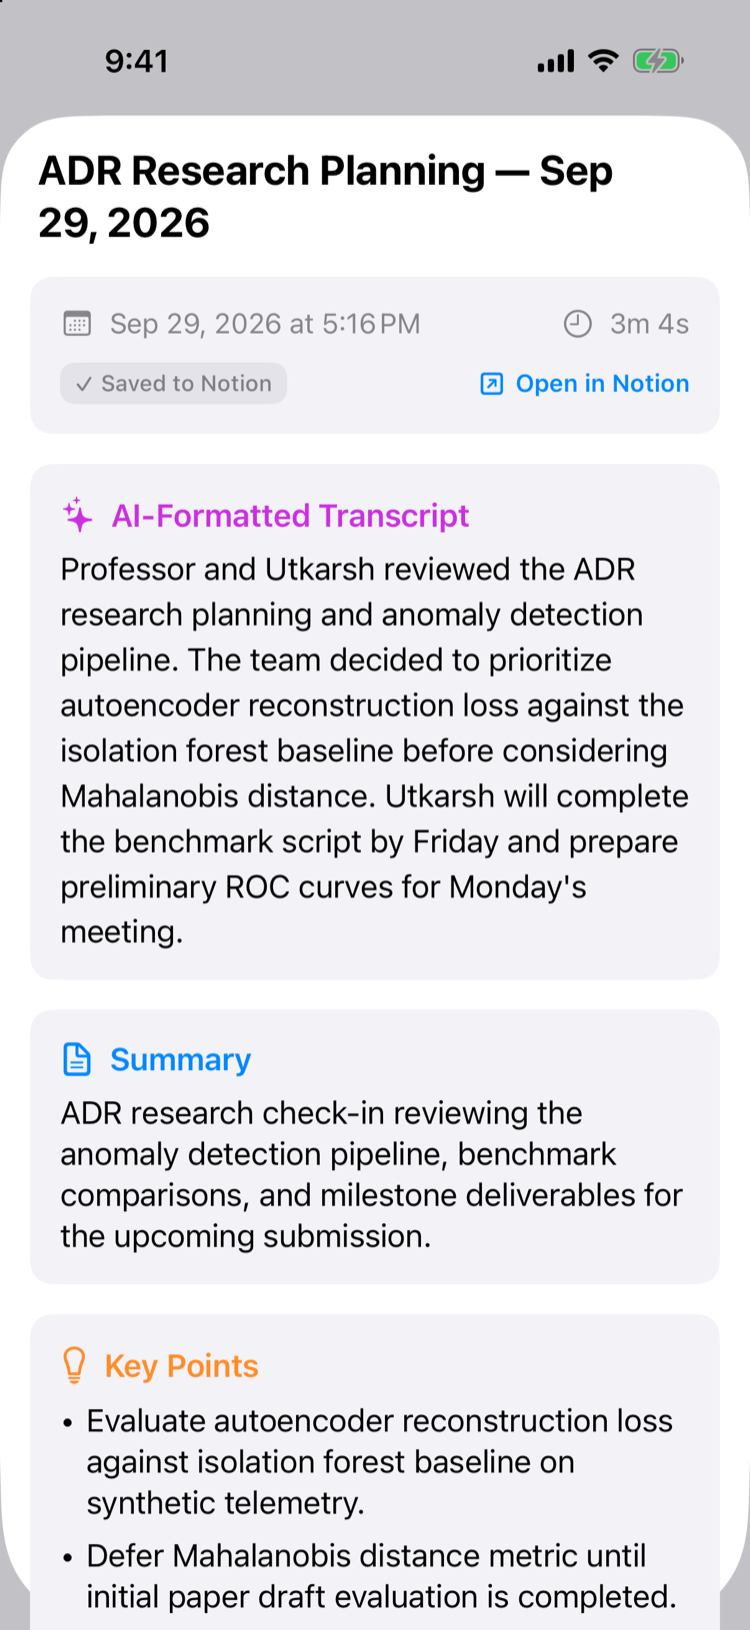
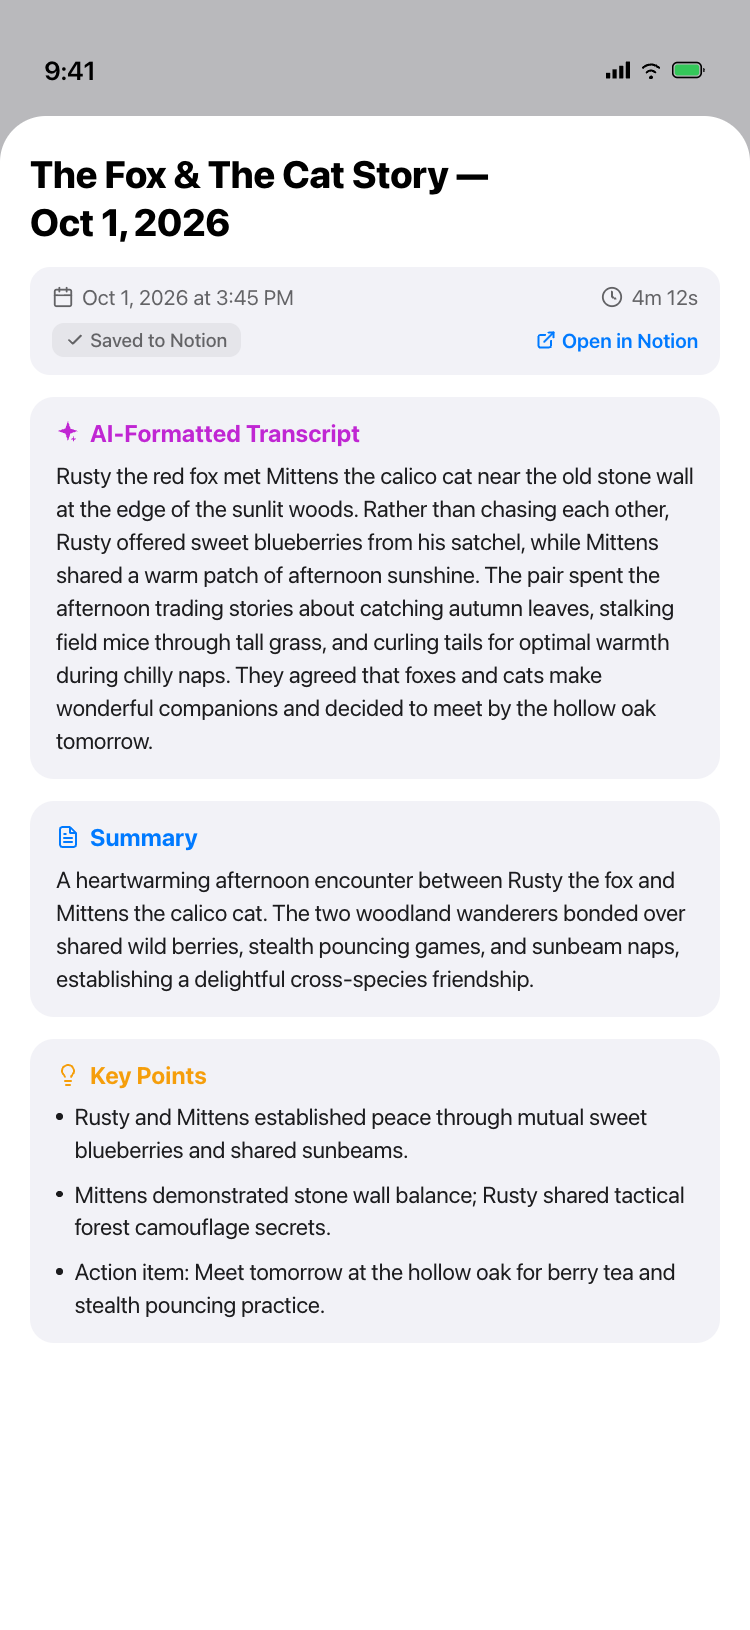
Balance metrics grids to 6 tiles, update Talks iPhone screenshot with fox & cat story, and fix TOC scrollspy bottom section highlight

diff --git a/script.js b/script.js
@@ -80,28 +80,63 @@ function initCopyEmail() {
 // Sticky TOC Sidebar (Scrollspy for Blog & Deep Dive Case Studies)
 // ==========================================================================
 function initTOC() {
-  const tocLinks = document.querySelectorAll('.toc-list a');
-  const headings = Array.from(document.querySelectorAll('.prose h2, .prose h3'));
+  const tocLinks = Array.from(document.querySelectorAll('.toc-list a'));
+  if (!tocLinks.length) return;
 
-  if (!tocLinks.length || !headings.length) return;
+  const targetElements = tocLinks.map(link => {
+    const href = link.getAttribute('href');
+    if (!href || !href.startsWith('#')) return null;
+    const id = href.slice(1);
+    const el = document.getElementById(id);
+    return el ? { link, el, id } : null;
+  }).filter(Boolean);
 
-  const observer = new IntersectionObserver((entries) => {
-    entries.forEach(entry => {
-      if (entry.isIntersecting) {
-        const id = entry.target.id;
-        tocLinks.forEach(link => {
-          link.classList.toggle('active', link.getAttribute('href') === `#${id}`);
-        });
-      }
+  if (!targetElements.length) return;
+
+  function setActive(activeLink) {
+    tocLinks.forEach(link => {
+      link.classList.toggle('active', link === activeLink);
     });
-  }, {
-    rootMargin: '0px 0px -70% 0px',
-    threshold: 0.1
+  }
+
+  function updateTOC() {
+    const scrollY = window.scrollY || window.pageYOffset || document.documentElement.scrollTop || 0;
+    const scrollBottom = window.innerHeight + scrollY;
+    const docHeight = Math.max(
+      document.body.scrollHeight,
+      document.documentElement.scrollHeight,
+      document.body.offsetHeight,
+      document.documentElement.offsetHeight
+    );
+
+    // 1. If at or near bottom of page (within 100px), highlight the very last TOC item
+    if (scrollBottom >= docHeight - 100) {
+      setActive(targetElements[targetElements.length - 1].link);
+      return;
+    }
+
+    // 2. Otherwise find the current active section based on top offset
+    let activeItem = targetElements[0];
+    for (let i = 0; i < targetElements.length; i++) {
+      const rect = targetElements[i].el.getBoundingClientRect();
+      if (rect.top <= 140) {
+        activeItem = targetElements[i];
+      } else {
+        break;
+      }
+    }
+    setActive(activeItem.link);
+  }
+
+  tocLinks.forEach(link => {
+    link.addEventListener('click', () => {
+      setActive(link);
+    });
   });
 
-  headings.forEach(h => {
-    if (h.id) observer.observe(h);
-  });
+  window.addEventListener('scroll', updateTOC, { passive: true });
+  window.addEventListener('resize', updateTOC, { passive: true });
+  updateTOC();
 }
 
 // ==========================================================================

diff --git a/projects/talks/index.html b/projects/talks/index.html
@@ -245,6 +245,14 @@
               <div class="metric-label">Decisions &amp; Action Items</div>
               <p class="metric-sub">Agreed deadlines, assigned responsibilities, and upcoming check-ins formatted as actionable checkboxes.</p>
             </div>
+            <div class="metric-card">
+              <div class="metric-label">Context-Aware Chunking</div>
+              <p class="metric-sub">Splits 60-minute transcripts along natural pauses into token-bounded ~3,500-character windows to fit on-device context.</p>
+            </div>
+            <div class="metric-card">
+              <div class="metric-label">100% On-Device Privacy</div>
+              <p class="metric-sub">Apple Foundation Models run strictly on the Apple Neural Engine with zero cloud API reliance and offline data sovereignty.</p>
+            </div>
           </div>
           <p>For long transcripts that exceed the on-device model’s token window, <code>MeetingAIService.splitIntoChunks</code> performs context-aware chunking: it divides text along natural paragraph and turn boundaries into bounded chunks (target size ~3,500 characters), generates structured summaries per section, and synthesizes a consolidated executive summary (<code>ConsolidatedSummaryOutput</code>) without dropping a single character from the source transcript.</p>
         </section>

diff --git a/projects/nytr/index.html b/projects/nytr/index.html
@@ -214,6 +214,16 @@
               <div class="metric-label">Physical Validation</div>
               <p class="metric-sub">Physical-device validated with real iPhone hardware, authentic Apple HealthKit permissions, and Stacks Market food offerings.</p>
             </div>
+            <div class="metric-card">
+              <div class="metric-val">Decimal Math</div>
+              <div class="metric-label">Exact Arithmetic</div>
+              <p class="metric-sub">Continuous quantities parse through Python's Decimal module and PostgreSQL numeric(6,3) to prevent floating-point rounding drift.</p>
+            </div>
+            <div class="metric-card">
+              <div class="metric-val">SHA-256</div>
+              <div class="metric-label">Cryptographic Audit</div>
+              <p class="metric-sub">Daily meal plans lock to immutable nutrition and target policy versions sealed with cryptographic fingerprints for verifiable historical replay.</p>
+            </div>
           </div>
         </section>
 

diff --git a/projects/clage/index.html b/projects/clage/index.html
@@ -118,6 +118,14 @@
               <div class="metric-label">Food Alignment Cosine</div>
               <p class="metric-sub">Mean cosine between effective movement vectors and nearest-food direction vectors, tracking statistical directional coupling.</p>
             </div>
+            <div class="metric-card">
+              <div class="metric-label">Lineage Depth</div>
+              <p class="metric-sub">Measures generational survival depth and phylogenic branch longevity across speciation boundaries.</p>
+            </div>
+            <div class="metric-card">
+              <div class="metric-label">Metabolic Efficiency</div>
+              <p class="metric-sub">Tracks the ratio of food calories harvested to movement energy expended over total agent lifespan.</p>
+            </div>
           </div>
           <div>
             <h3>Empirical Finding: Food Density Confound</h3>

diff --git a/projects/scholarai/index.html b/projects/scholarai/index.html
@@ -174,6 +174,14 @@
               <div class="metric-label">React 19 Frontend</div>
               <p class="metric-sub">Vite + Tailwind CSS interface featuring citizen onboarding, interactive comparison matrices, and What-If profile simulations.</p>
             </div>
+            <div class="metric-card">
+              <div class="metric-label">Hybrid RRF Fusion</div>
+              <p class="metric-sub">Reciprocal Rank Fusion balancing dense pgvector cosine similarity against BM25 lexical keyword ranking.</p>
+            </div>
+            <div class="metric-card">
+              <div class="metric-label">Streaming Citations</div>
+              <p class="metric-sub">Server-Sent Events streaming token-by-token reasoning grounded with official government scheme IDs and links.</p>
+            </div>
           </div>
         </section>
 

diff --git a/styles.css b/styles.css
@@ -845,9 +845,21 @@ main > section h2 {
 
 .metrics-grid {
   display: grid;
-  grid-template-columns: repeat(auto-fit, minmax(220px, 1fr));
+  grid-template-columns: repeat(3, 1fr);
   gap: 1rem;
   margin: 1.5rem 0;
+}
+
+@media (max-width: 768px) {
+  .metrics-grid {
+    grid-template-columns: repeat(2, 1fr);
+  }
+}
+
+@media (max-width: 480px) {
+  .metrics-grid {
+    grid-template-columns: 1fr;
+  }
 }
 
 .metric-card {
